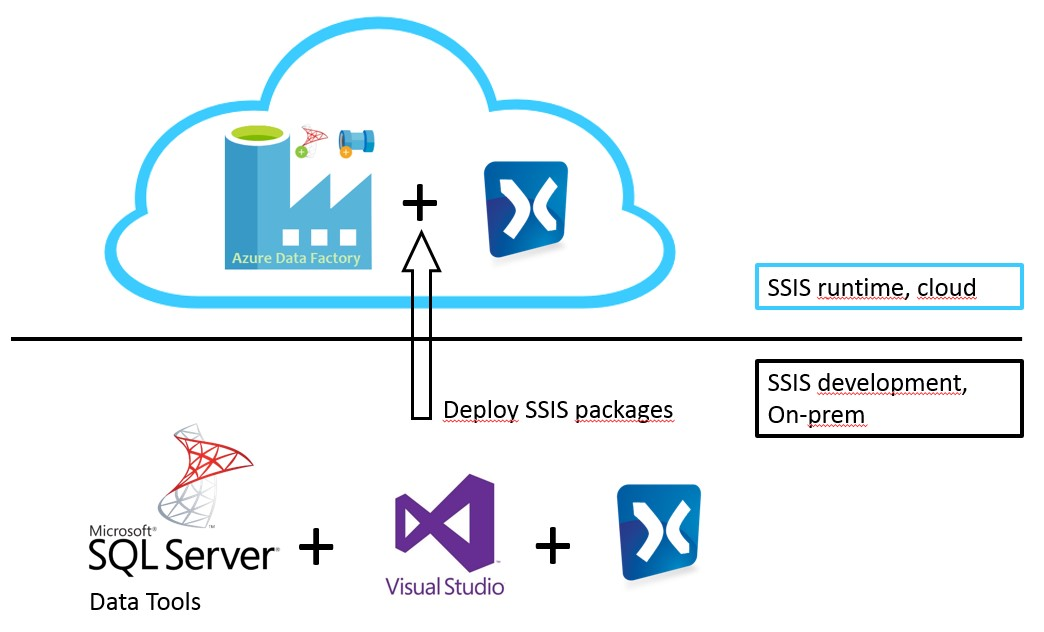
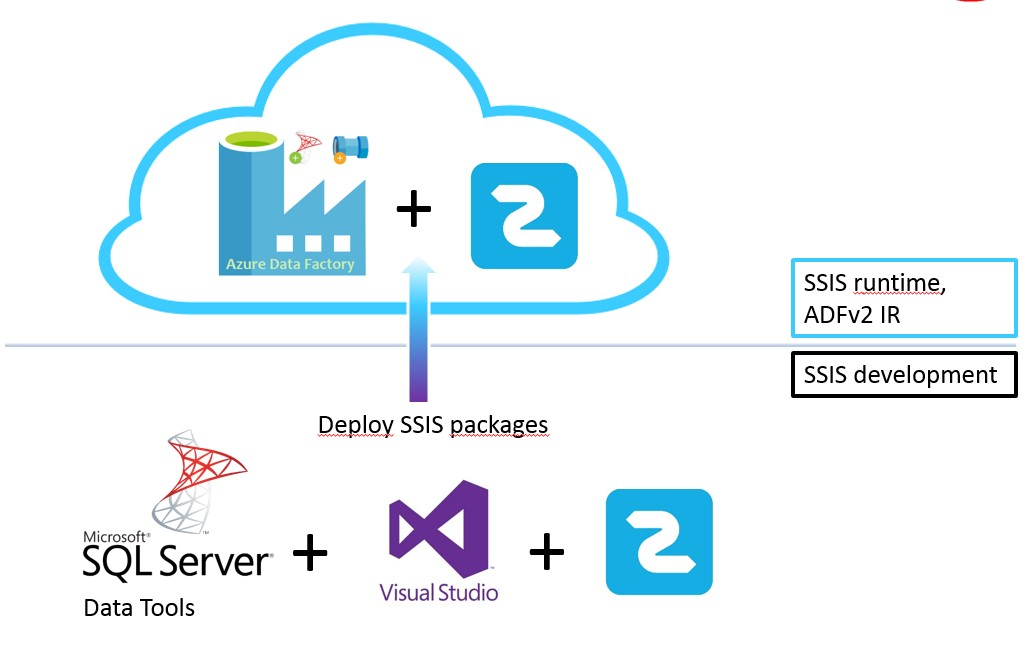
XIS for Azure/EN/DE: New screenshot, altered text

diff --git a/content/_en/xtract-is/for-azure.md b/content/_en/xtract-is/for-azure.md
@@ -14,10 +14,12 @@ old_url: /Xtract-IS-EN/default.aspx?pageid=xtract_is_for_azure
 
 *Xtract IS for Azure* is a solution that allows running SSIS packages, containing Xtract IS components, on an [Azure-SSIS Integration Runtime (IR), based on Microsoft's Azure Data Factory v2 (ADFv2)](https://azure.microsoft.com/en-us/blog/lift-sql-server-integration-services-packages-to-azure-with-azure-data-factory/).
 
-With Azure-SSIS IR, SSIS packages will still be developed on a local, on prem Visual Studio/SSDT environment.
-However, instead of deploying those packages to an on prem SSIS server, those packages will be deployed to an Azure-SSIS IR to be scheduled and run in the Azure cloud.
+With Azure-SSIS IR, SSIS packages will still be developed on a local (on prem) Visual Studio/SSDT environment.
+However, instead of deploying those packages to an on prem SSIS server, those packages will be deployed to an Azure-SSIS IR (part of ADFv2) to be scheduled and run in the Azure cloud.
 
-Xtract IS for Azure makes sure, that Azure-SSIS IR supports SSIS packages, containing Xtract IS components for connecting to and extracting data from SAP.
+![XISforAzure_Architecture](/img/content/XISforAzure_Architecture.jpg){:class="img-responsive" width="800px"}
+
+Xtract IS for Azure makes sure, that Azure-SSIS IR supports SSIS packages, containing Xtract IS components for connecting to and extracting data from SAP. You need to make sure that your SAP system is accessible from your Azure cloud environment, for instance through a VPN tunnel.
 
 Xtract IS for Azure is based on the existing Xtract IS version, that's been around for on prem installations for years now.
 Hence Xtract IS for Azure offers exactly the same SAP data extraction functionality as Xtract IS.

diff --git a/content/_de/xtract-is/for-azure.md b/content/_de/xtract-is/for-azure.md
@@ -15,7 +15,7 @@ old_url: /Xtract-IS-DE/default.aspx?pageid=voraussetzungen_und_installation___xi
 *Xtract IS for Azure* ermöglicht es, SSIS Pakete, welche Xtract IS Komponenten enthalten, auf einer [Azure-SSIS Integration Runtime (IR), based on Microsoft's Azure Data Factory v2 (ADFv2)](https://azure.microsoft.com/en-us/blog/lift-sql-server-integration-services-packages-to-azure-with-azure-data-factory/) auszuführen.
 
 Bei der Nutzung der Azure-SSIS IR werden SSIS Pakete wie bisher lokal und on-prem in Visual Studio/SSDT entwickelt.
-Diese Pakete werden dann allerdings nicht auf einem on-prem SSIS Server deployt, sondern auf eine Azure-SSIS IR in der Azure cloud, um dort eingeplant und ausgeführt zu werden.
+Diese Pakete werden dann allerdings nicht auf einem on-prem SSIS Server deployt, sondern auf eine Azure-SSIS IR  (als Teil der ADFv2) in der Azure cloud, um dort eingeplant und ausgeführt zu werden. Dabei muss sichergestellt werden, dass Ihr SAP System aus der Azure Cloud heraus erreichbar ist, ggf. via VPN.
 
 ![XISforAzure_Architecture](/img/content/XISforAzure_Architecture.jpg){:class="img-responsive" width="800px"}
 
